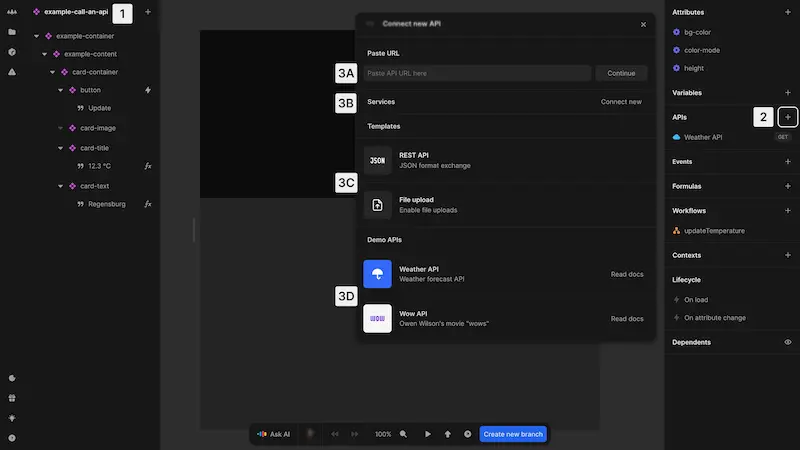
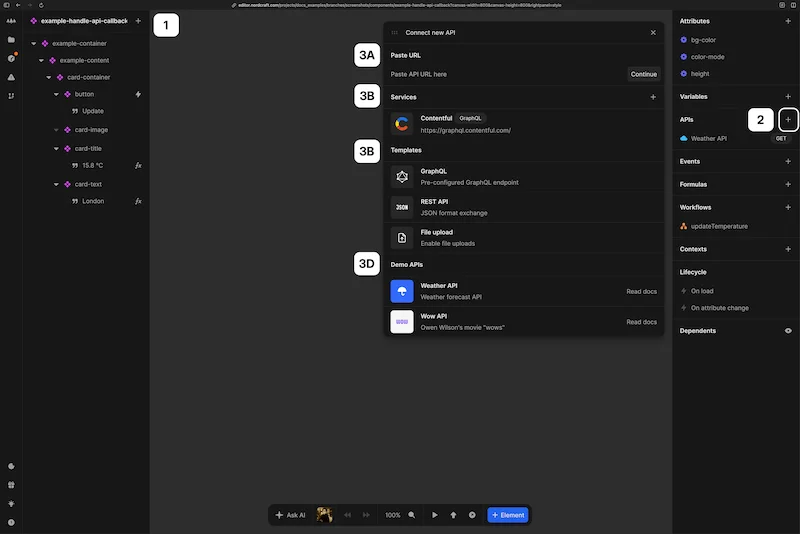
Add graphql info (#435)

diff --git a/docs/connecting-data/working-with-apis/index.md b/docs/connecting-data/working-with-apis/index.md
@@ -7,9 +7,11 @@ description: Connect API endpoints in Nordcraft with custom methods, URLs, heade
 
 APIs are the primary way to connect your Nordcraft application to external data sources. They enable communication between your front-end application and back-end services, allowing you to fetch, send and manipulate data.
 
+Nordcraft supports any API and has a dedicated GraphQL explorer for working with GraphQL APIs.
+
 ## Connect a new API
 
-![The attributes panel is visible to the right of the editor. One API is in the API section list, named Weather API. The add new API dialog is visible, indicating the plus button next to APIs has been clicked. The connect new API dialog shows options for pasting a new API URL, connecting a new service, or choosing from one of the API templates, including a REST API and file upload template. The dialog also shows the option for adding two demo APIs, the weather API and the Owen Wilson wow API. The image is annotated according to the list items below.|16/9](set-up-an-api.webp 'Connect a new API')
+![The attributes panel is visible to the right of the editor. One API is in the API section list, named Weather API. The add new API dialog is visible, indicating the plus button next to APIs has been clicked. The connect new API dialog shows options for pasting a new API URL, connecting a new service, or choosing from one of the API templates, including a REST API, GraphQL and file upload template. The dialog also shows the option for adding two demo APIs, the weather API and the Owen Wilson wow API. The image is annotated according to the list items below.|16/9](set-up-an-api.webp 'Connect a new API')
 
 To create a new API connection in Nordcraft:
 
@@ -125,6 +127,37 @@ You can test your API directly in the editor:
 4. Check the returned data to ensure the API provides the correct information
 
 The response section will display the data returned from the API, including properly formatted JSON if that is the response format.
+
+## GraphQL explorer
+
+Nordcraft provides a GraphQL explorer for you to build GraphQL queries for GraphQL APIs. After connecting a GraphQL API, click on the `Add field` button to start building your query.
+
+![The edit API dialog is open for a GraphQL API connection. A button named Add Field is highlighted with a white border to the right of the API connection details.|16/9](graphql-add-field.webp 'Add a field to a GraphQL query')
+
+After you've added your first field, you'll see the GraphQL explorer open on the left of the API dialog so you can further refine your query. Click the [kbd]+[kbd] buttons to add fields to your query, and click the checkmarks next to the fields to remove them from your query. Watch the API response update in real time when the [auto fetch](/connecting-data/call-an-api#using-auto-fetch) toggle is on.
+
+![The GraphQL explorer is showing a query constructed on the blogPostCollection entity, with the fields category, date and slug selected under items. The API response panel on the right is showing the data fetched by the query.|16/9](graphql-built-query.webp 'Add a field to a GraphQL query')
+
+### Add a GraphQL query variable
+
+The GraphQL explorer supports GraphQL query variables, allowing you to build your queries with dynamic data.
+
+![The GraphQL explorer is annotated to match the list items below. It shows a small dialog on an author field with an ID pasted into the input. Below there is a button to create variable, which is highlighted with a white border.|16/9](graphql-create-variable.webp 'Add a variable to a GraphQL query')
+
+To add a GraphQL query variable:
+
+1. Click on the cog wheel icon next to a field that supports a GraphQL variable
+2. Add a variable value in two ways:
+   **(A)** Paste in a hard-coded value
+   **(B)** Click `Create variable` for more options and flexibility
+
+When you create a GraphQL query variable, you can view and edit the variable in the variables tab of the GraphQL explorer. You can also use a formula to power the variable value using the formula editor.
+
+![The formula editor is open, showing that the value of the author ID variable is being powered by a project formula defined at the project level.|16/9](graphql-variable-formula-editor.webp 'Configure a GraphQL variable')
+
+:::tip
+When you add a GraphQL query variable using `Create variable`, give it a descriptive name such as `author_id`.
+:::
 
 ## Next steps
 

diff --git a/docs/connecting-data/services/index.md b/docs/connecting-data/services/index.md
@@ -9,7 +9,10 @@ Services in Nordcraft simplify working with APIs by automatically retrieving end
 
 Nordcraft supports connections to a variety of back-end services:
 
+- **Contentful**: Content management system (GraphQL)
+- **DatoCMS**: Content management system (GraphQL)
 - **Supabase**: Open-source Postgres database with authentication and real-time capabilities
+- **Umbraco**: Content management system (GraphQL)
 - **Xano**: No-code database and API builder
 - **OpenAPI**: Any service using the [OpenAPI Specification](https://swagger.io/resources/open-api) (v2 and v3)
 
